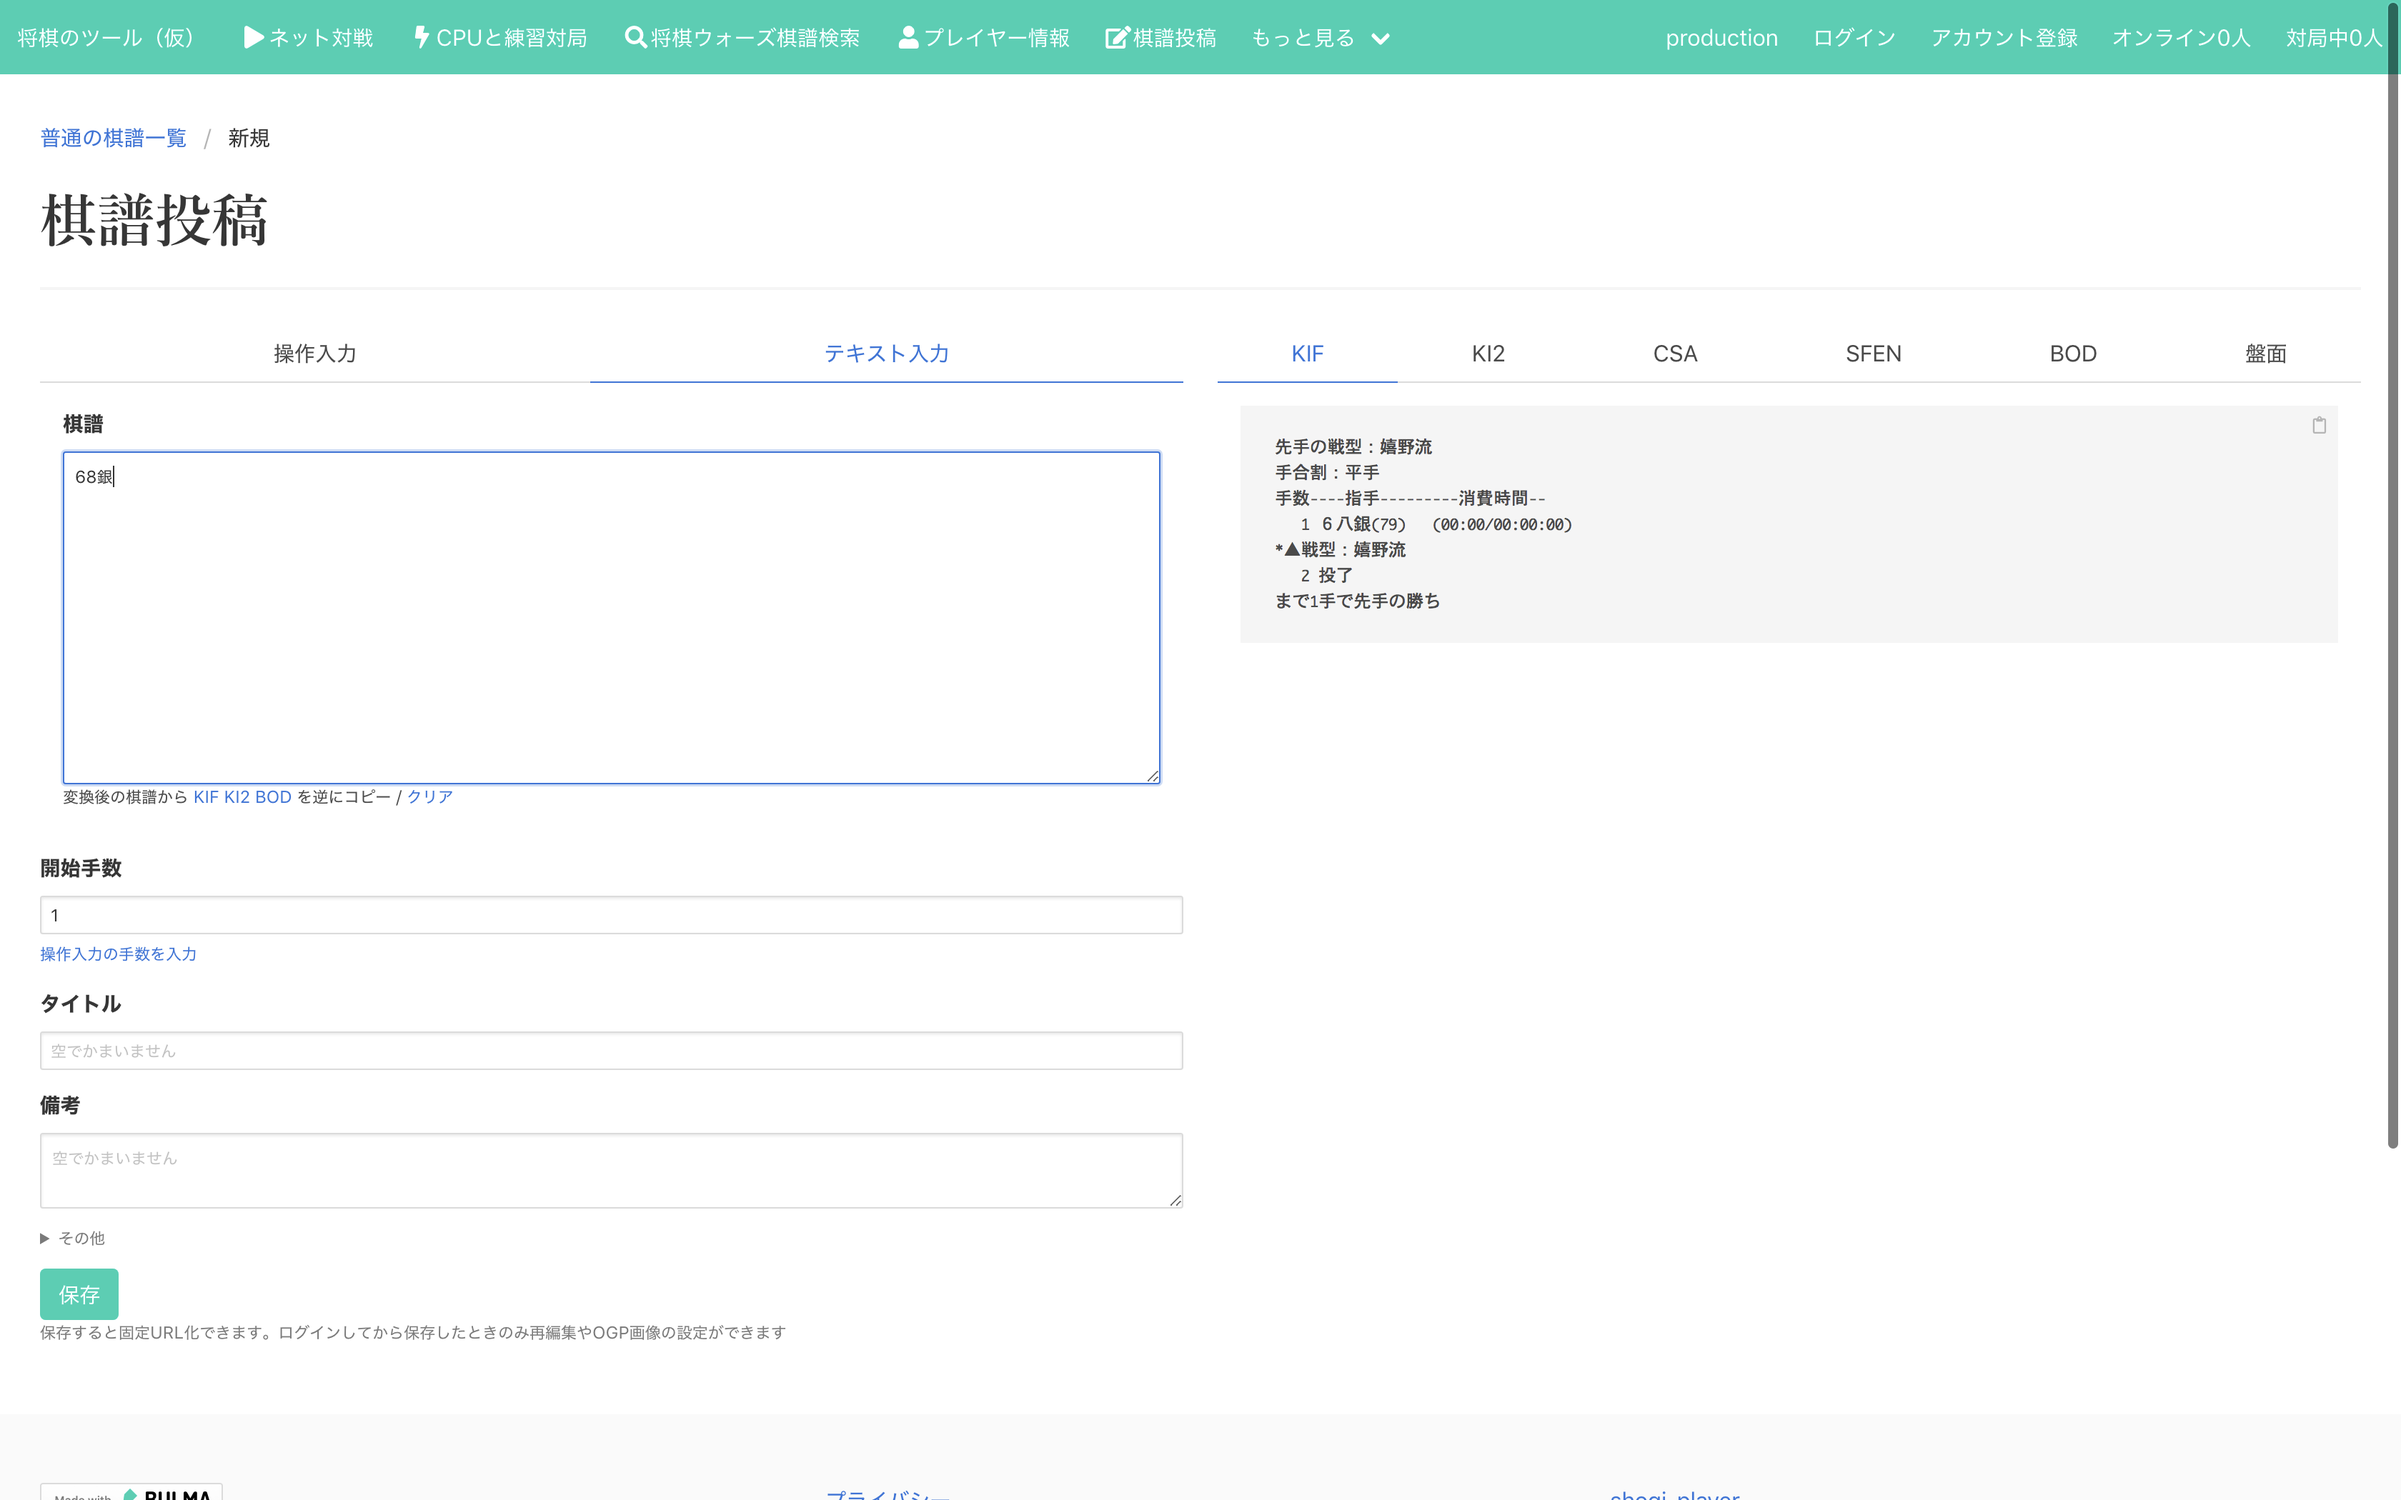
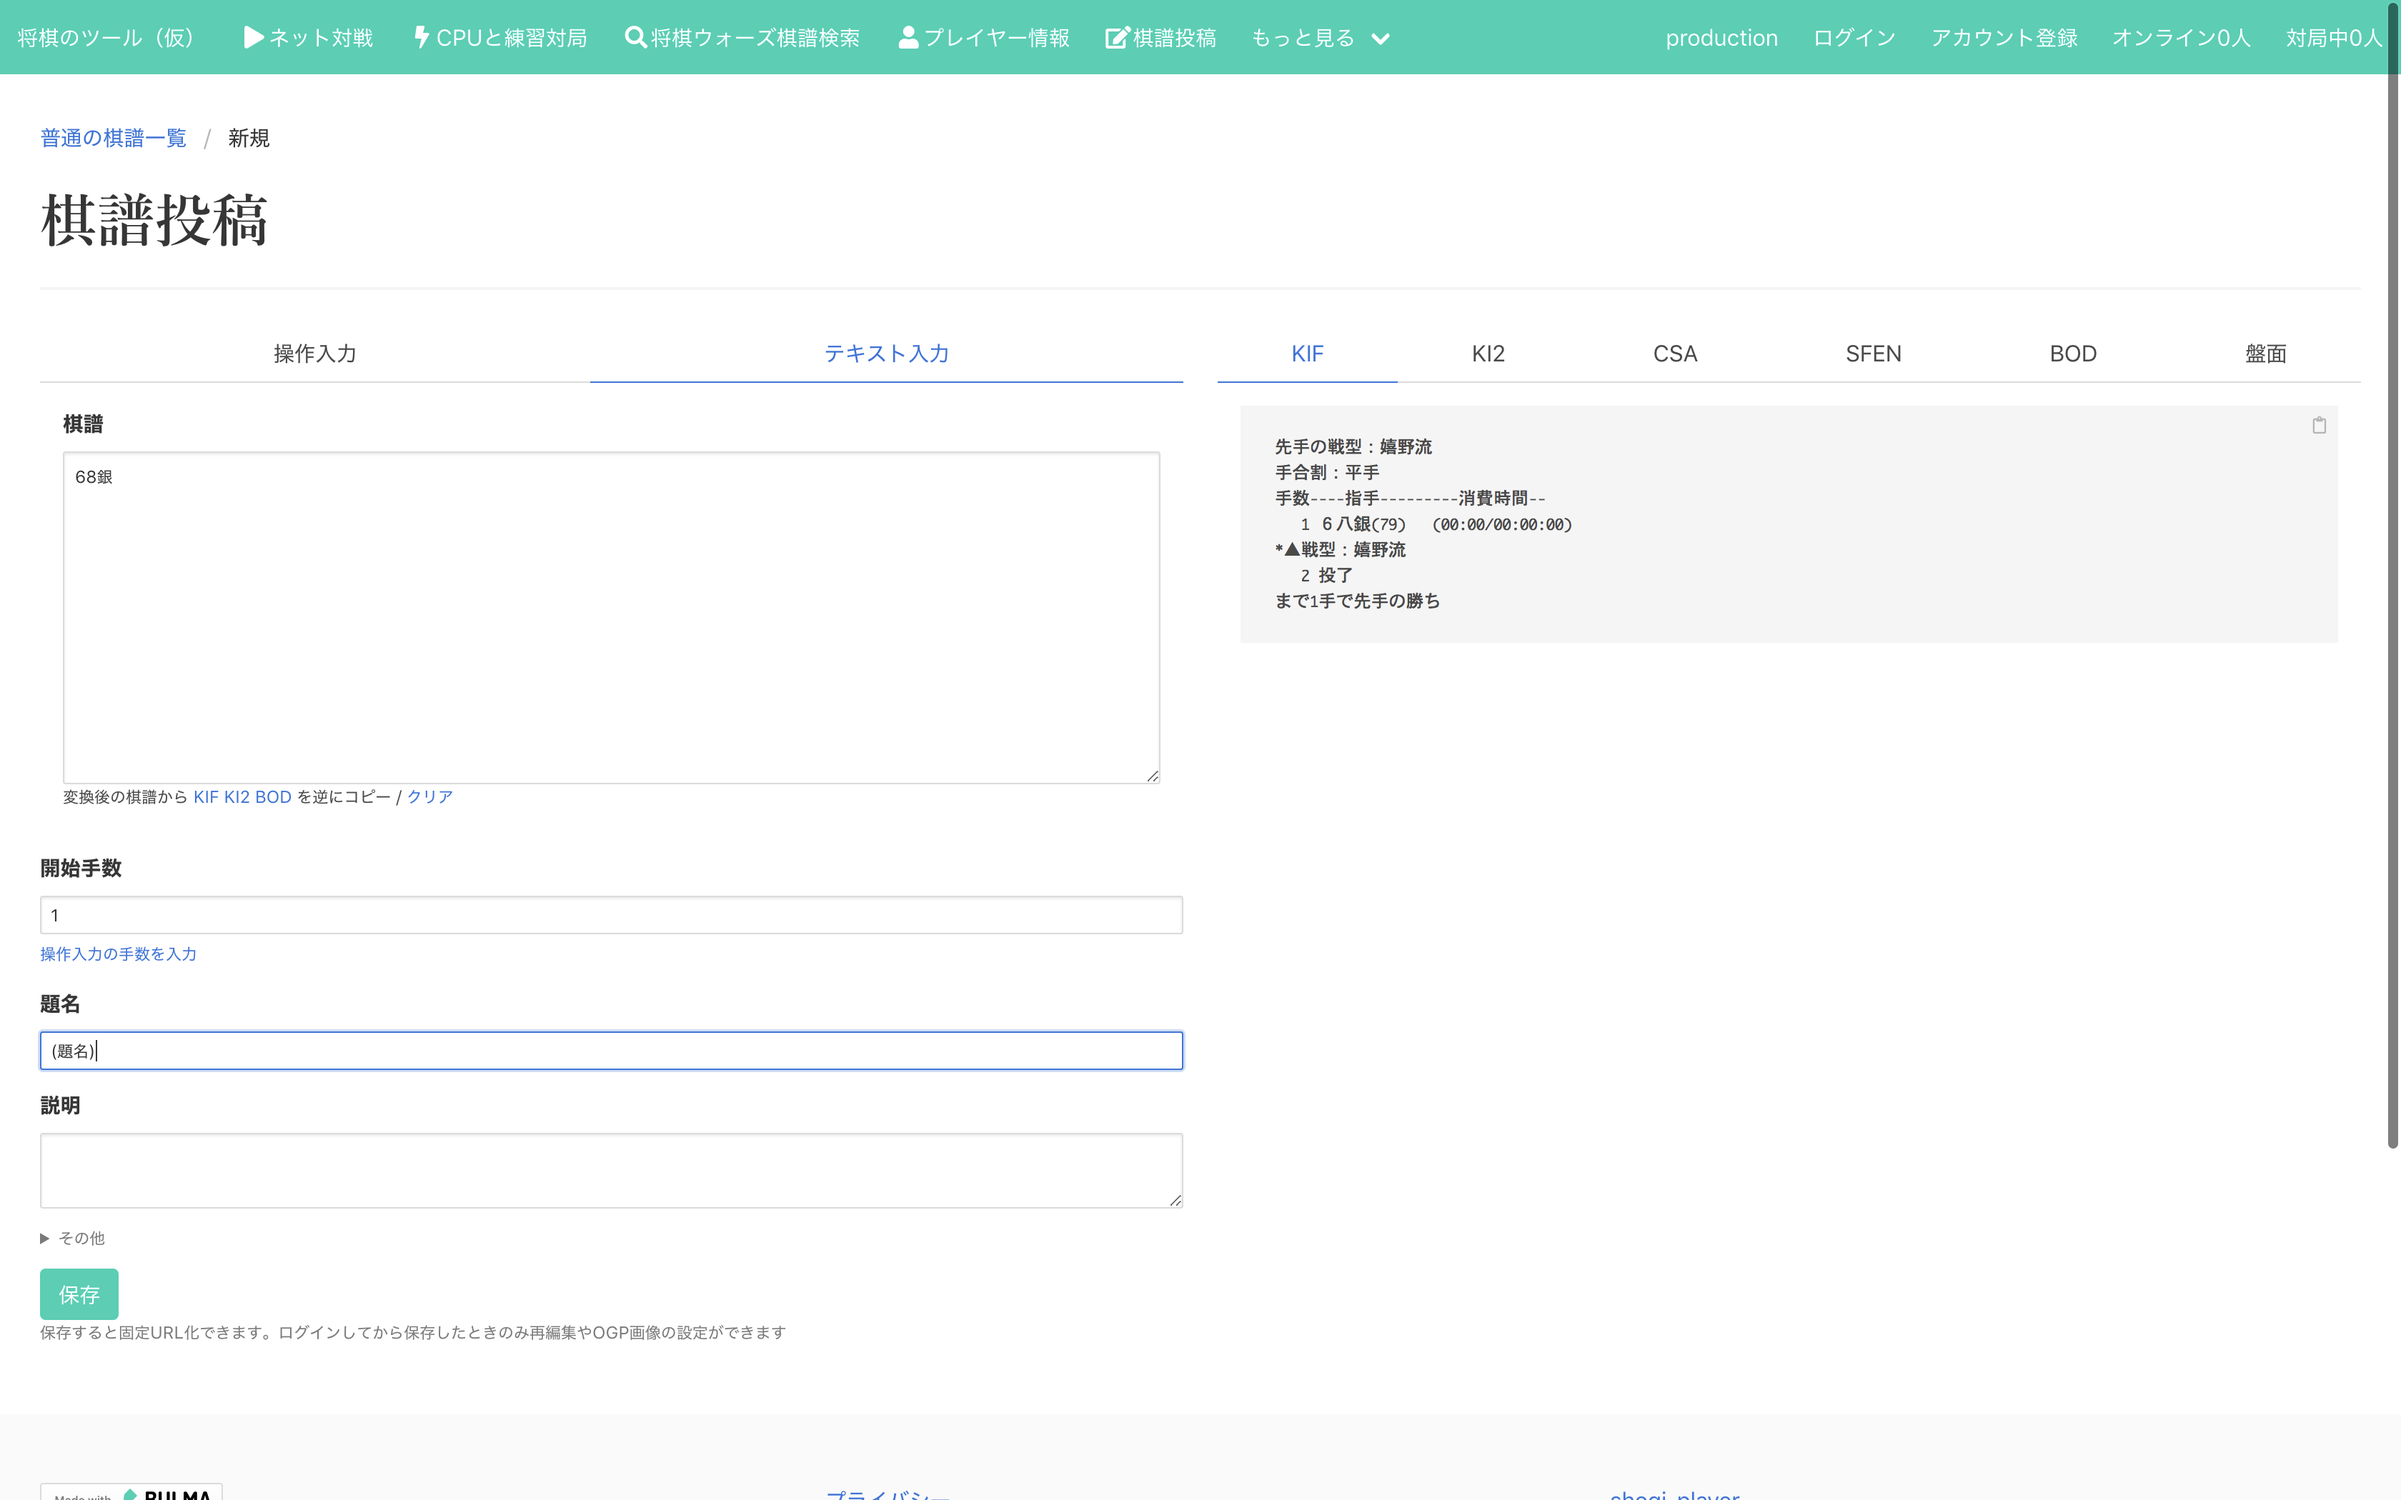
[chore] free_battle の title 入力を必須化

Changed region(s): [[0.0, 0.65, 0.0938, 0.7429]]

diff --git a/app/models/free_battle.rb b/app/models/free_battle.rb
@@ -90,8 +90,8 @@ class FreeBattle < ApplicationRecord
     end
   end
 
-  def safe_title
-    title.presence || "#{self.class.count.next}番目の何かの棋譜"
+  def default_title
+    "#{self.class.count.next}番目の何かの棋譜"
   end
 
   def to_title
@@ -115,7 +115,7 @@ class FreeBattle < ApplicationRecord
   end
 
   before_validation do
-    self.title = safe_title
+    self.title ||= default_title
     self.description ||= ""
 
     self.kifu_body ||= ""

diff --git a/app/models/saturn_info.rb b/app/models/saturn_info.rb
@@ -1,7 +1,7 @@
 class SaturnInfo
   include ApplicationMemoryRecord
   memory_record [
-    { key: :public,  name: "公開",     },
-    { key: :private, name: "自分だけ", },
+    { key: :public,  name: "公開",     icon: "" },
+    { key: :private, name: "自分だけ", icon: "key" },
   ]
 end

diff --git a/spec/system/free_battles_spec.rb b/spec/system/free_battles_spec.rb
@@ -20,6 +20,7 @@ RSpec.describe "棋譜投稿", type: :system do
     # expect(page).to have_field "free_battle[kifu_file]"
 
     fill_in "free_battle[kifu_body]", with: "68銀"
+    fill_in "free_battle[title]", with: "(題名)"
     sleep(3)
     doc_image("入力")
     click_button "保存"
